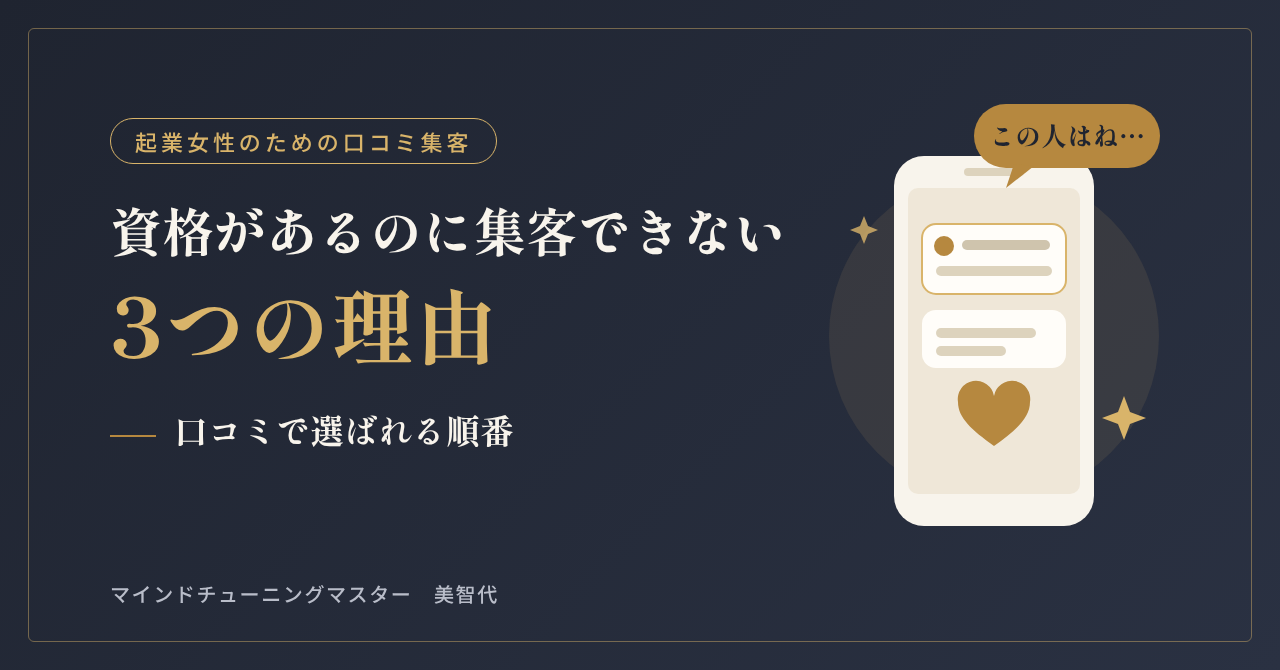
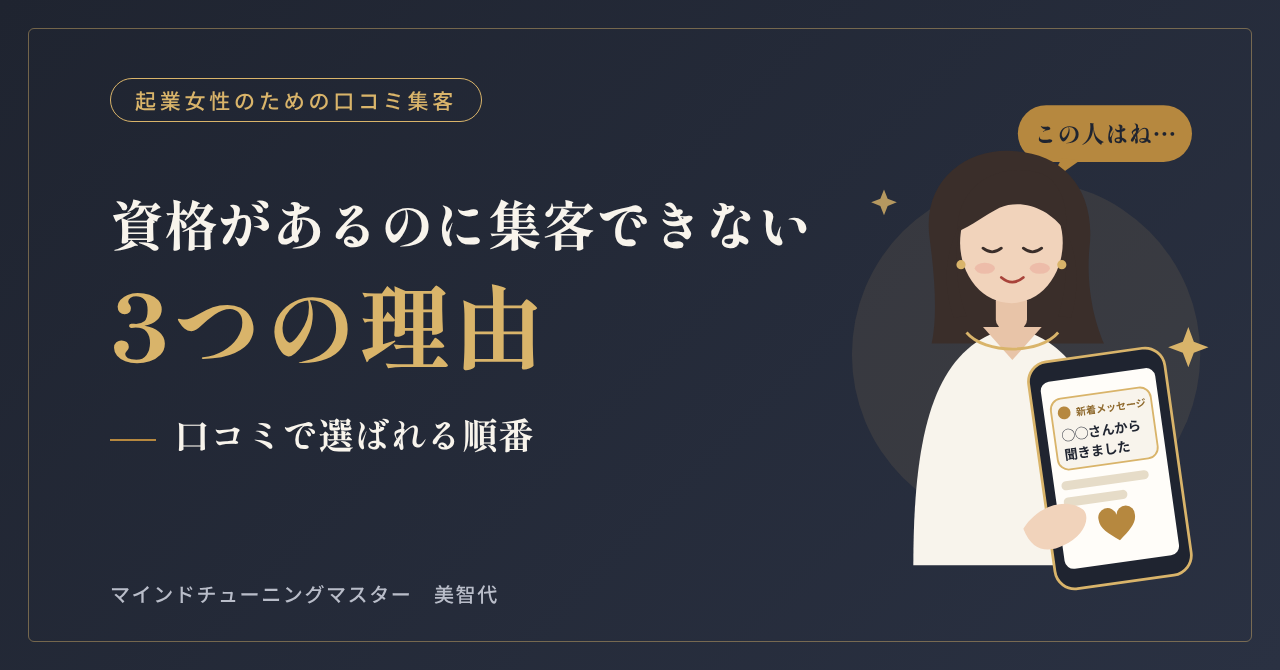
Update note cover: add woman illustration and referral message
Claude-Session: https://claude.ai/code/session_013rDv8bkWzB59JhxLj6Y43J

diff --git a/sns-posts/images/note-cover_erabare-nou.html b/sns-posts/images/note-cover_erabare-nou.html
@@ -10,52 +10,85 @@
   html,body{width:1280px;height:670px;overflow:hidden;}
   body{background:linear-gradient(135deg,var(--ink) 0%,var(--ink2) 100%);font-family:"Noto Sans JP",sans-serif;color:var(--cream);position:relative;}
   .frame{position:absolute;inset:28px;border:1px solid rgba(217,180,106,.45);border-radius:6px;}
-  .text{position:absolute;left:110px;top:118px;width:700px;}
-  .kicker{display:inline-block;font-size:22px;letter-spacing:.18em;color:var(--gold-l);border:1px solid var(--gold-l);border-radius:999px;padding:6px 24px;margin-bottom:30px;font-weight:500;}
-  h1{font-family:"Shippori Mincho",serif;font-weight:800;line-height:1.38;}
-  h1 .l1{display:block;font-size:52px;}
-  h1 .l2{display:block;font-size:82px;color:var(--gold-l);letter-spacing:.02em;}
-  .sub{margin-top:26px;font-family:"Shippori Mincho",serif;font-weight:700;font-size:34px;color:var(--cream);}
+  .kicker{position:absolute;left:110px;top:78px;font-size:21px;letter-spacing:.18em;color:var(--gold-l);border:1px solid var(--gold-l);border-radius:999px;padding:6px 24px;font-weight:500;}
+  .text{position:absolute;left:110px;top:186px;width:720px;}
+  h1{font-family:"Shippori Mincho",serif;font-weight:800;line-height:1.36;}
+  h1 .l1{display:block;font-size:54px;}
+  h1 .l2{display:block;font-size:92px;color:var(--gold-l);letter-spacing:.02em;}
+  .sub{margin-top:22px;font-family:"Shippori Mincho",serif;font-weight:700;font-size:36px;}
   .sub::before{content:"";display:inline-block;width:46px;height:2px;background:var(--gold);vertical-align:middle;margin-right:18px;}
   .name{position:absolute;left:110px;bottom:62px;font-size:20px;color:#b9bdc9;letter-spacing:.08em;}
-  .art{position:absolute;right:96px;top:96px;}
+  .art{position:absolute;right:66px;top:52px;}
+  .msg{font-family:"Noto Sans JP",sans-serif;font-weight:700;}
 </style>
 </head>
 <body>
   <div class="frame"></div>
+  <div class="kicker">起業女性のための口コミ集客</div>
   <div class="text">
-    <div class="kicker">起業女性のための口コミ集客</div>
     <h1><span class="l1">資格があるのに集客できない</span><span class="l2">3つの理由</span></h1>
     <p class="sub">口コミで選ばれる順番</p>
   </div>
   <div class="name">マインドチューニングマスター　美智代</div>
 
-  <svg class="art" width="380" height="470" viewBox="-20 0 380 470" overflow="visible" aria-hidden="true">
-    <circle cx="170" cy="240" r="165" fill="rgba(217,180,106,.10)"/>
-    <!-- phone -->
-    <rect x="70" y="60" width="200" height="370" rx="30" fill="#f8f4ec"/>
-    <rect x="84" y="92" width="172" height="306" rx="10" fill="#efe7d8"/>
-    <rect x="140" y="72" width="60" height="8" rx="4" fill="#ddd3bd"/>
-    <!-- incoming message -->
-    <rect x="98" y="128" width="144" height="70" rx="14" fill="#fffdf9" stroke="#d9b46a" stroke-width="2"/>
-    <circle cx="120" cy="150" r="10" fill="#b6883f"/>
-    <rect x="138" y="144" width="88" height="10" rx="5" fill="#cfc4ad"/>
-    <rect x="112" y="170" width="116" height="10" rx="5" fill="#ddd3bd"/>
-    <!-- second message -->
-    <rect x="98" y="214" width="144" height="58" rx="14" fill="#fffdf9"/>
-    <rect x="112" y="232" width="100" height="10" rx="5" fill="#ddd3bd"/>
-    <rect x="112" y="250" width="70" height="10" rx="5" fill="#ddd3bd"/>
-    <!-- heart -->
-    <path d="M170 350 c-22 -16 -36 -28 -36 -44 a18 18 0 0 1 36 -6 a18 18 0 0 1 36 6 c0 16 -14 28 -36 44z" fill="#b6883f"/>
+  <svg class="art" width="385" height="550" viewBox="0 0 420 600" aria-hidden="true">
+    <circle cx="215" cy="330" r="190" fill="rgba(217,180,106,.10)"/>
+
     <!-- speech bubble -->
-    <g transform="translate(150,8)">
-      <rect x="0" y="0" width="186" height="64" rx="32" fill="#b6883f"/>
-      <path d="M40 60 l-8 24 l28 -22z" fill="#b6883f"/>
-      <text x="93" y="42" text-anchor="middle" font-family="Shippori Mincho, serif" font-weight="800" font-size="26" fill="#1f2430">この人はね…</text>
+    <g transform="translate(206,58)">
+      <rect x="0" y="0" width="190" height="62" rx="31" fill="#b6883f"/>
+      <path d="M48 58 l-14 26 l34 -24z" fill="#b6883f"/>
+      <text x="95" y="41" text-anchor="middle" font-family="Shippori Mincho, serif" font-weight="800" font-size="26" fill="#1f2430">この人はね…</text>
     </g>
+
+    <!-- woman -->
+    <!-- back hair -->
+    <path d="M110 205 C 100 140, 150 105, 200 108 C 255 110, 292 150, 284 215 C 280 262, 292 300, 300 318 L 112 318 C 118 290, 116 250, 110 205 Z" fill="#3a2e2a"/>
+    <!-- neck -->
+    <rect x="182" y="262" width="34" height="40" rx="10" fill="#e8c4a8"/>
+    <!-- body / top -->
+    <path d="M92 560 C 92 400, 120 318, 200 300 C 280 318, 312 400, 312 560 Z" fill="#f8f4ec"/>
+    <path d="M168 300 L 200 336 L 232 300 Z" fill="#e8c4a8"/>
+    <path d="M150 306 C 170 330, 230 330, 250 306" fill="none" stroke="#d9b46a" stroke-width="3"/>
+    <!-- face -->
+    <ellipse cx="199" cy="208" rx="56" ry="66" fill="#f1d3bb"/>
+    <!-- bangs -->
+    <path d="M140 196 C 140 140, 190 120, 230 132 C 252 140, 262 168, 258 196 C 240 170, 210 160, 186 170 C 170 178, 156 190, 140 196 Z" fill="#3a2e2a"/>
+    <!-- side hair -->
+    <path d="M142 190 C 136 230, 140 262, 150 288 L 136 290 C 124 256, 126 220, 142 190 Z" fill="#3a2e2a"/>
+    <path d="M256 190 C 262 230, 258 262, 250 288 L 264 290 C 274 256, 272 220, 256 190 Z" fill="#3a2e2a"/>
+    <!-- relieved closed eyes -->
+    <path d="M168 214 q 10 8 20 0" fill="none" stroke="#3a2e2a" stroke-width="3" stroke-linecap="round"/>
+    <path d="M212 214 q 10 8 20 0" fill="none" stroke="#3a2e2a" stroke-width="3" stroke-linecap="round"/>
+    <!-- cheeks -->
+    <ellipse cx="170" cy="236" rx="11" ry="6" fill="#e9a99a" opacity=".55"/>
+    <ellipse cx="230" cy="236" rx="11" ry="6" fill="#e9a99a" opacity=".55"/>
+    <!-- smile -->
+    <path d="M188 246 q 12 10 24 0" fill="none" stroke="#a8433a" stroke-width="3" stroke-linecap="round"/>
+    <!-- earring -->
+    <circle cx="144" cy="232" r="5" fill="#d9b46a"/>
+    <circle cx="254" cy="232" r="5" fill="#d9b46a"/>
+
+    <!-- phone + hand -->
+    <g transform="rotate(-8 300 430)">
+      <rect x="228" y="330" width="150" height="250" rx="22" fill="#1f2430" stroke="#d9b46a" stroke-width="3"/>
+      <rect x="240" y="352" width="126" height="206" rx="10" fill="#fffdf9"/>
+      <!-- message -->
+      <rect x="248" y="372" width="110" height="78" rx="12" fill="#f8f4ec" stroke="#d9b46a" stroke-width="2"/>
+      <circle cx="262" cy="388" r="7" fill="#b6883f"/>
+      <text x="275" y="393" font-family="Noto Sans JP, sans-serif" font-weight="700" font-size="11" fill="#8f6a2e">新着メッセージ</text>
+      <text class="msg" x="256" y="418" font-size="14.5" fill="#1f2430">◯◯さんから</text>
+      <text class="msg" x="256" y="439" font-size="14.5" fill="#1f2430">聞きました</text>
+      <rect x="248" y="462" width="96" height="10" rx="5" fill="#e6dcc8"/>
+      <rect x="248" y="480" width="70" height="10" rx="5" fill="#e6dcc8"/>
+      <path d="M303 534 c-12 -9 -20 -16 -20 -25 a10 10 0 0 1 20 -3 a10 10 0 0 1 20 3 c0 9 -8 16 -20 25z" fill="#b6883f"/>
+    </g>
+    <!-- hand -->
+    <path d="M212 520 C 230 492, 262 486, 278 500 C 286 510, 276 530, 256 538 C 240 546, 222 546, 212 520 Z" fill="#f1d3bb"/>
+
     <!-- sparkles -->
-    <path d="M300 300 l6 16 l16 6 l-16 6 l-6 16 l-6 -16 l-16 -6 l16 -6z" fill="#d9b46a"/>
-    <path d="M40 120 l4 10 l10 4 l-10 4 l-4 10 l-4 -10 l-10 -4 l10 -4z" fill="#d9b46a" opacity=".8"/>
+    <path d="M392 300 l6 16 l16 6 l-16 6 l-6 16 l-6 -16 l-16 -6 l16 -6z" fill="#d9b46a"/>
+    <path d="M60 150 l4 10 l10 4 l-10 4 l-4 10 l-4 -10 l-10 -4 l10 -4z" fill="#d9b46a" opacity=".8"/>
   </svg>
 </body>
 </html>
